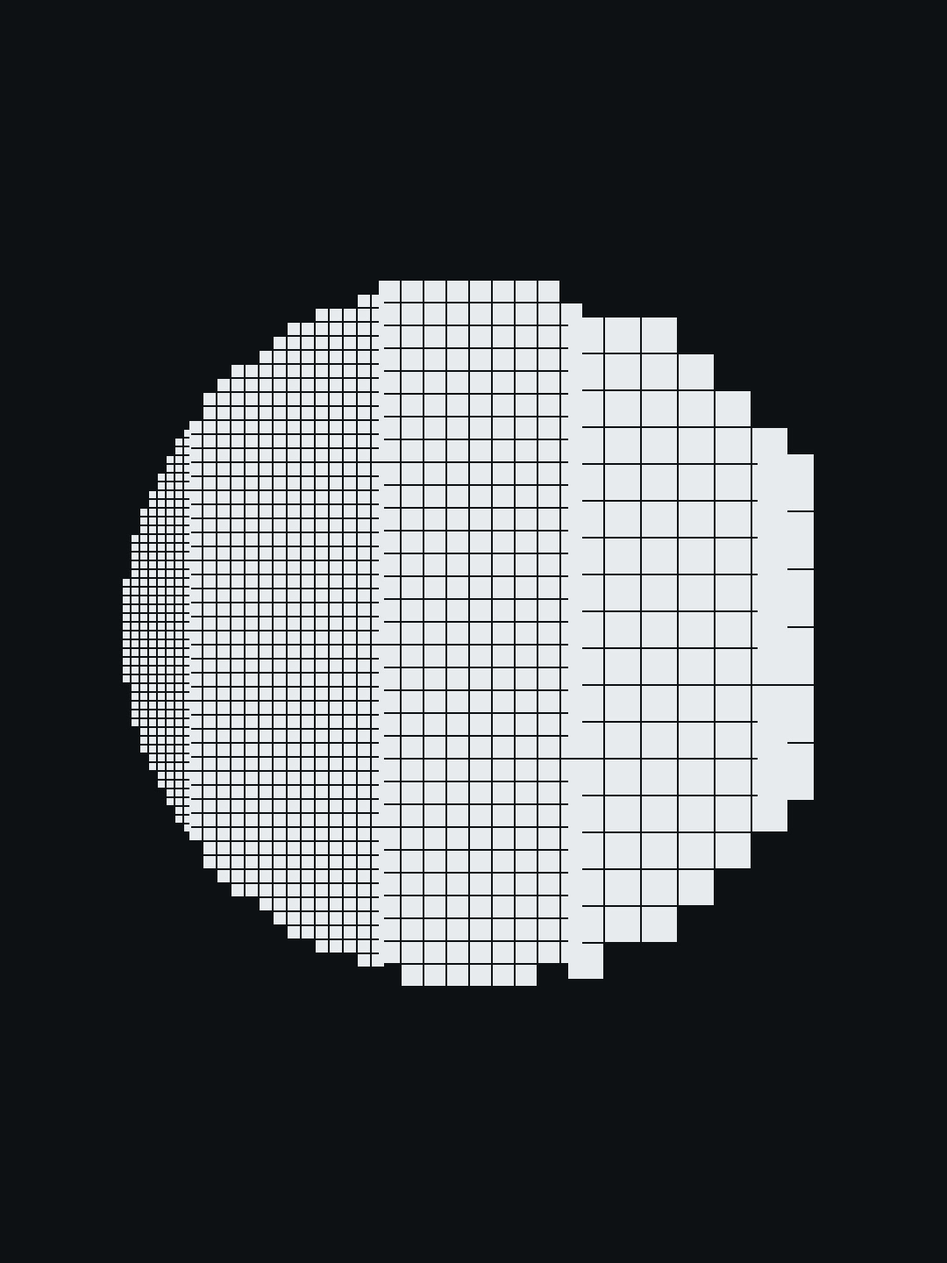
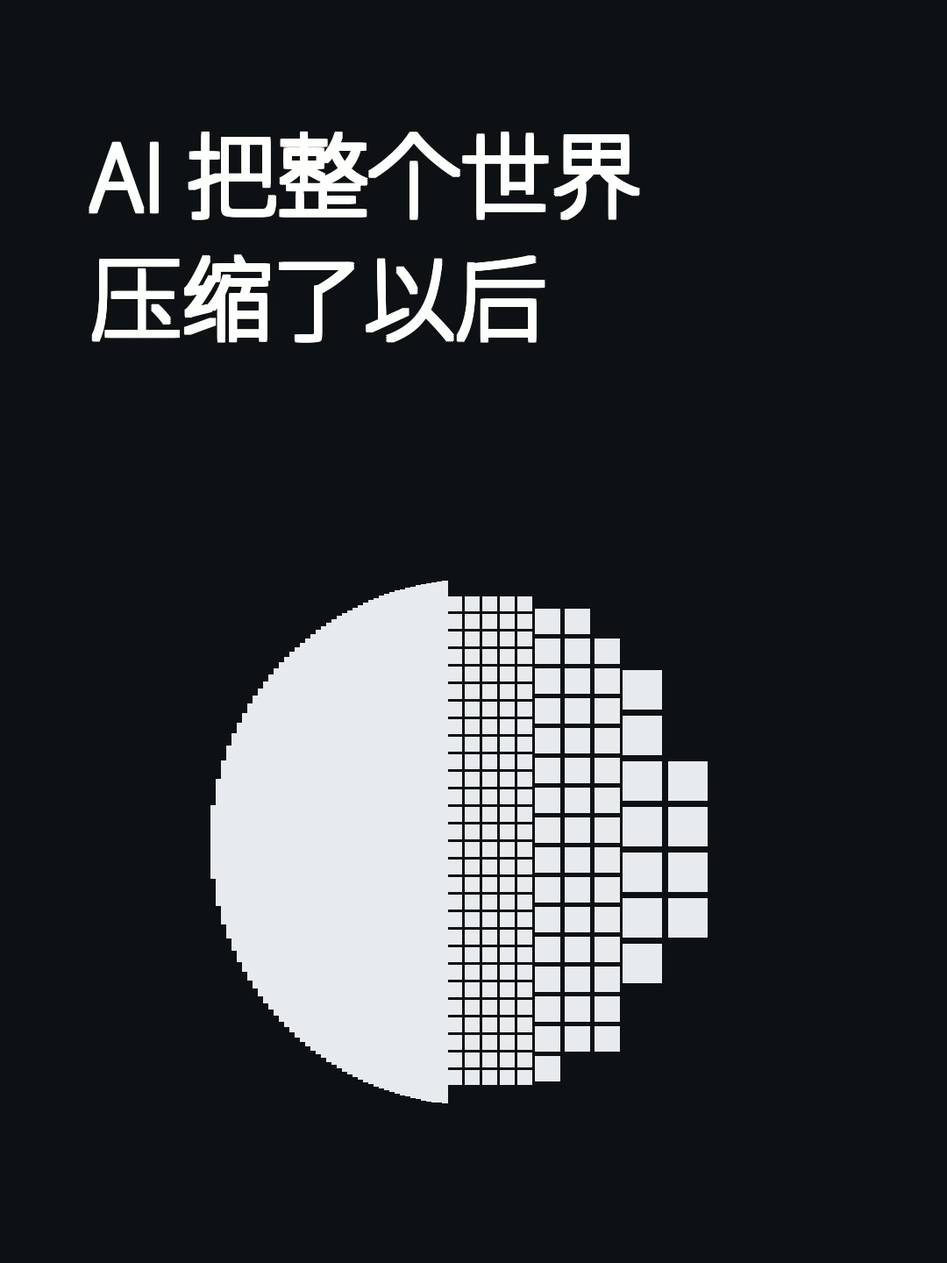
按涨粉定位重做 03;skill 整体重写
skill:
- 明确现阶段定位是快速涨粉,不是出版级长文
- 优先级倒过来:封面 > 标题 > 前三行 > 正文
- 正文 800 字上限;结尾要留能引发评论的钩子
- 封面必须带标题大字,深色底 + 几何母题,过 200px 缩略图测试
- 按 07 那篇的教训,skill 自己也从 180 行砍到 ~110 行,少讲菜谱

03:
- 正文 2200 → 797 字,8 节压成 5 节。砍掉断网思想实验、"到底懂不懂"整节(计算器/维基/GPT-3 算术)、结尾一节和两条编者注
- 逐段清掉六处白开水:首行改成"AI 其实什么都没记住"(结论前置)、幻觉一节加"不是出了错,是在补空"、去掉定义性和被动引入句、修掉结尾"距离"三连
- 结尾换成评论钩子:AI 给的东西挑不出毛病,你却总觉得那不是你想说的
- 封面重做:深色底 + 标题大字(Noto Sans CJK,多次微偏移模拟粗体)+ 一个圆左半实心、右半碎成越来越大的块

Claude-Session: https://claude.ai/code/session_01WUE7xkVtrBcZMM129J3yer

Changed region(s): [[0.0917, 0.0938, 0.8861, 0.875]]

diff --git a/.claude/skills/compile-article/SKILL.md b/.claude/skills/compile-article/SKILL.md
@@ -1,173 +1,109 @@
 ---
 name: compile-article
-description: 处理一篇外文文章,产出知觉之门的发布稿。给定文章(链接或正文)后:先判定是否值得收录,值得则按 AGENTS.md《编译》规则做通俗编译,再依次做流畅性检查、分段标题与加黑斟酌、配一张高级配图。当用户说"编译这篇""这篇值不值得收""翻译这个"或给出一个外文文章链接要处理时使用。
+description: 把一篇外文文章或一手材料做成知觉之门的小红书稿。判断值不值得做 → 先定标题和封面 → 再写卡片正文 → 打磨 → 更新索引。当用户说"编译这篇""这篇值不值得收""翻译这个",或给出一个文章链接要处理时使用。
 ---
 
-# 编译一篇文章
+# 做一篇小红书稿
 
-`AGENTS.md` 是唯一事实源,本 skill 只是把协作步骤排成流程。每一步做完再进下一步,不跳步。
+`AGENTS.md` 是唯一事实源。skill 本身也在探索,哪条不合理就改掉。
 
-产物放 `release/`,平铺,编号接着现有最大号(`NN-<英文短 slug>`):
-- `NN-<slug>.en.md` — 原文,逐字保留,绝不覆盖
-- `NN-<slug>.md` — 通俗编译稿
-- `NN-<slug>.jpg` — 小红书封面(1080×1440)
-- 需要时 `NN-<slug>.zh-en.md` — 逐段中英对照
+## 现阶段的定位
 
-编号只定文件名,不定发布顺序;上线顺序由用户排(通常解释类、基础类靠前)。
+**这个阶段要的是快速涨粉,不是出版级长文。** 长文是后面的事。
 
-## 两个栏目,两种做法
+每条规则都按这个标准判断:它能不能让更多人停下、看完、点关注。
 
-- **主线(通俗编译)**:面向"想了解 AI 的普通人,不在 AI 圈"。按 AGENTS.md《编译》做通俗改写,术语当场用人话解释,配公共领域艺术作品封面。下面的完整流程针对这一类。
-- **前沿从业者怎么说**:面向已经在用这些工具的人。做**忠实翻译**,保留结构和术语(AGENTS.md、skill、context、prompt 等不通俗化),文首点明"谁、什么时候、在哪说的"。这一类:第 1 步收录判定放宽(不要求普通人有座位),第 2 步换成忠实翻译而非通俗改写,第 3 步照做,配图可以直接用原文自带的(裁/垫成 1080×1440)。
+由此定优先级 —— **封面 > 标题 > 前三行 > 正文**。封面和标题决定有没有人点进来,正文只决定点进来的人会不会看完。力气按这个顺序花,别倒过来。
+
+## 产物
+
+`release/` 平铺,编号接现有最大号:
+
+- `NN-<slug>.md` — 发布稿
+- `NN-<slug>.jpg` — 封面 1080×1440
+- `NN-<slug>.en.md` — 原文逐字保留,绝不覆盖(有外文原文时)
+
+## 两个栏目
+
+- **主线**:面向不在 AI 圈的普通人。通俗改写,术语当场用人话解释。
+- **前沿从业者怎么说**:面向已经在用这些工具的人。忠实翻译,保留术语(AGENTS.md、skill、context、prompt 不通俗化),文首点明"谁、何时、在哪说的"。时效强、出得快,涨粉阶段可以多做。
 
 ---
 
-## 第 0 步:拿到原文
+## 第 1 步:值不值得做
 
-- 链接优先用 `curl -sL -A "Mozilla/5.0 …"` 抓,提取正文段落,存 `<slug>.en.md`(标题、副标题、作者、日期在前)。
-- 抓不到就请用户贴正文。
-- 通读一遍。不清楚论证前不进下一步。
+**硬门槛**(任一不过就别做):
 
-## 第 1 步:判定是否值得收录
+- 把 AI 删掉,文章还完整 → 不做。
+- 只有观点,没有人、物、机制、数字 → 不做。
+- 是新闻复述、跑分、"普通人如何抓住风口" → 不做。
 
-先过硬门槛(任一不过 → 不收,直接告诉用户为什么):
+**涨粉门槛**(这个阶段比"文章好不好"更重要):
 
-1. **删掉 AI 后文章还完整吗?** 完整 → 不收。
-2. **它咬住了一个具体问题吗?** 一句大白话能说清"它在问什么",且普通人会点头"我也想过";如果反应是"有意思,但不是我的事" → 选题或切入口有问题。
-3. **里面有人、物、机制或选择吗?** 只有观点、没有具体载体 → 不收。
-4. **它是新闻 / 参数复述 / "普通人如何抓住机会"吗?** 是 → 不收。知觉之门不追发布。
+- 一句话能说清它在讲什么吗?说不清,封面和标题就没法做。
+- 普通人看到会不会觉得"这说的就是我"?只会"有意思但不关我事" → 换选题。
+- 有没有可争的地方?能引评论的选题,比无懈可击的选题值钱。
 
-再过价值门槛:
+不做就停在这里,一句话讲清为什么。
 
-5. **它能收回到一个问题,然后要么落一个判断,要么抛一个更深的问题吗?** 只是"一个有趣的研究" → 不够。
-6. **读者读完,会重新打量自己生活里的什么?** 说不出来 → 还不成熟。
-7. **文章本身够好、够自足吗?** 论证靠定义硬撑、或半篇是易腐的预测和跑分 → 只适合当"多来源里的一个",不适合整篇编译,建议用户改走原创稿。
-8. **立场会不会和 `release/` 里已有的稿雷同?** 现有稿如果已经几篇都在讲"AI 侵蚀了某种人的能力",再来一篇同调的会把号做成"AI 怀疑号"。提示用户,让他决定是否仍要收,或换一篇补别的栏目/别的立场(经营决策、前沿、有现场、偏正面或混合)。
+## 第 2 步:先定标题和封面
 
-输出:一句结论(收 / 不收)+ 逐条理由。不收就停在这里。
+**在写正文之前定。** 定不下来,说明选题本身不成立。
 
-## 第 2 步:通俗编译(按 AGENTS.md《编译》)
+**标题**(封面上的大字):
 
-- **验收标准:一个受过教育的普通读者,每句话第一遍就读懂。一个懂技术的人读着卡壳,就是没做完。**
-- 保留论证和作者的语气、第一人称转述("Sacasas 说""他觉得"),不保留原文的句式和抽象度。
-- 每一个抽象论断都要落成具体的事或一个日常例子。译到抽象处停下来问:这句话能还原成人、物、机制、数字或决定吗?不能就重写。
-- 引文改成转述,只留带画面的那几句(如"引开看门狗的肉""就着盐吸可卡因")。哲学家引哲学家的链条压掉;次要来源压成一两句。
-- 删原文的开场客套、邮件通讯说明、写给订户的旁白、文末推荐阅读。
-- 术语躲不开时当场用人话解释;能删的术语名字直接删,只留功能描述。
-- 原文若是几年前的,内容里有已经过时的经验、预测或跑分:不改原意,在正文里用方框 `> 编者注:…` 补一句现在的情况(这也正是知觉之门"过几个月回来核对"的做法)。编者注自带标签,少而准,一篇最多两三条。
-- 文首只放一行出处:`> 编译自 <作者>,《<原题>》,<出处>,<年份>。` 不写"通俗改写""不逐句直译""英文原文见…"之类的说明,那些是全站惯例,写进 `release/index.md` 一次就够。
-- 有公式就用 LaTeX(GitHub 渲染):行内 `$...$`,单独成行 `$$...$$`。不要写成"e 的 −λT 次方"这种。
+- 用中文本来的说法。不搬英文标题语法("为 X 重新思考 Y""当 X 之后""关于 X 的 N 件事")。
+- **不拿原文的比喻当标题** —— 比喻是正文才建立起来的东西,读者还没读,看不懂。
+- **不要工整对仗**。对仗听着像金句,其实是空壳,一股 AI 味。锋利来自一个具体的、反直觉的断言。
+- 写完念一遍:主语有没有滑掉,有没有词被硬当名词用。
 
-## 第 3 步:三轮打磨(逻辑性 / 表达性 / 可读性)
+**封面**:
 
-**逐字逐句过**,不是通读一遍找大问题。三轮,每轮只盯一个维度,每轮都从头读全文,把问题逐条改掉再进下一轮。
+- 1080×1440,深色底 `0x0E1013` + 白/浅灰几何母题 + 大留白 + **标题大字**。
+- 母题要**画出文章的核心机制**,不是装饰(有损压缩 → 一个圆的格子从细到粗;指数衰减 → 一排按 $e^{-\lambda T}$ 降下去的柱子)。
+- **缩略图测试**:缩到 200px 宽还认不出主体,就是废图,重做。满幅排线的老版画、整页文字的书影一律过不了。
+- 全站视觉必须一致 —— 读者刷到第三条时要认得出是同一个号。
+- 工具只有 ffmpeg(没有 PIL / ImageMagick / rsvg)。`drawbox` 拼几何,`drawtext` 排字(字体 Noto Sans CJK SC):
+  ```
+  python3 gen.py > vf.txt
+  ffmpeg -f lavfi -i "color=c=0x0E1013:s=1080x1440" -vf "$(cat vf.txt)" -frames:v 1 -q:v 2 out.jpg
+  ```
+- 前沿栏目可以直接用原文自带的图。用他人作品要在文末写清作品、作者、藏馆、授权;自己生成的不用署名。
 
-**第一轮 —— 逻辑性**
-- 论证链条有没有断口:每一步推论跟得上上一步吗?有没有跳步、偷换概念、前后矛盾?
-- 结论是真的从前面推出来的,还是硬接上去的?
-- 一个较真的反对者会从哪一句插进来?那句得补严。
-- 有条件的结论有没有被写成绝对的;关键数字、因果方向,回原始来源核。
+## 第 3 步:写正文
 
-**第二轮 —— 表达性**
-- 每句话有没有把想说的意思说准、说到位;有没有含糊、绕、说了等于没说的地方。
-- 比喻贴不贴切,例子对不对得上要讲的点。
-- 关键判断有没有被埋在一堆铺垫里;该重的地方重了没有。
-- 术语躲不开时当场用人话解释;能删的术语名字直接删。
+**正文按节排成图片卡,一节 = 一张卡。**
 
-**第三轮 —— 可读性**
-- 目标读者从头顺下来,有没有要回读第二遍的句子。
-- 指代清不清("它""这个""他们"指谁);连接词生不生硬;同一个词短距离重复。
-- 句子头重脚轻、一句话绕三层、破折号里套太长的从句。
-- 节奏:该快的地方快,该停的地方停;可删的字词删掉。
-- 假人味:为显得有人味而抖机灵、硬凑口语——判废。
+- **全篇 800 字上限**,超了就砍。这个阶段没人在小红书上读两千字。
+- 一节一张卡,**每张卡一个重点**。纯铺垫的内容不能单独占一张卡:并进去,或者删掉。
+- **前三行必须是读者自己的事** —— 他正在做、或已经在嘀咕的。不拿"某年某国某公司出了件怪事"开场。
+- **正题在第一、二张卡就出现**,不能铺三张卡才揭晓。
+- 每节先给判断,再给论证。
+- 小标题连起来读是一条完整主干 —— 只看小标题的人也能拿到骨架。
+- 一段 60–100 字封顶(手机 4–6 行),超过就拆,一句一层。
+- 加黑不超过 3–4 处,只加能独立拎出来的判断,不加解释文。
+- **结尾留一个能引发评论的问题或判断** —— 评论带来分发。
 
-三轮做完,把每轮"挑出的问题 → 改法"给用户看。
+其他:
 
-## 第 4 步:按小红书的卡片节奏排
+- 文首一行出处:`> 编译自 <作者>,《<原题>》,<出处>,<年份>。`
+- 术语躲不开时当场用人话解释;能删的术语直接删,只留功能描述。
+- 原文有过时的预测或跑分,用 `> 编者注:` 补一句现状,一篇最多两条。
+- 公式用 LaTeX。行内 `$...$` 前后留空格,别贴中文标点,否则 GitHub 不渲染;`\text{中文}` 不渲染,别用。
 
-**小红书上正文是按节排成图片卡的,一节 = 一张卡。** 读者是滑着看的,每张卡自己要立得住。
+## 第 4 步:打磨
 
-**结构:**
-- **一节一张卡,每张卡一个重点。** 纯铺垫、纯背景的内容不能单独占一张卡——它没有重点,读者划走。要么并进有判断的那张,要么删。
-- **第一张卡是封面卡**:必须是读者自己的事(他正在做、或已经在嘀咕的),加一个判断。不能拿"某年某国某公司出了件怪事"开场——那是别人的事。
-- **正题不能等**。文章真正要讲的东西,第一、二张卡就得出现,不能铺三张卡才揭晓。
-- **结论前置**:每节先给判断,再给论证,不是先铺垫后揭晓。
-- **小标题连起来读,应该是一条完整的主干**。只看小标题的人也能拿到全文骨架。
-- **编者注最多两条**,卡片里塞太多注会打断节奏。能并进正文的就并进去。
+按篇幅决定投入,别在八百字的稿子上做两千字的功夫。逐句读一遍,盯三样:
 
-**段落:**
-- 手机上一行约 15–18 字。**一段 60–100 字封顶(4–6 行),超过就拆。**
-- 拆的办法是一句一层,不是硬断。
-- 排完自己数一遍最长的几段,超了就改。
+- **逻辑**:有没有跳步、前后矛盾;有条件的结论有没有被写成绝对的;关键数字回原始来源核。
+- **表达**:有没有含糊、绕、说了等于没说;比喻贴不贴切;有没有把精确的词换成口水话(通俗 ≠ 拉低抽象层次)。
+- **可读**:有没有要回读第二遍的句子;指代清不清;同一个词短距离重复;为显得有人味硬凑口语 —— 判废。
 
-**标题:**
-- 按 AGENTS.md《标题》一节重拟。标题是封面卡上的大字,要让读者觉得"这说的是我"或"这我想知道"。
-- **不拿原文的比喻当标题** —— 比喻是正文要建立的东西,不是入口。读者还没读,看不懂比喻。
-- **不搬英文标题语法**("为 X 重新思考 Y""换上 X,做 Y""当 X 之后""关于 X 的 N 件事")。
-- 不要工整对仗——对仗听着像金句,其实是空壳,而且一股 AI 味。锋利来自一个具体的、反直觉的断言,不是来自句式。
-- 写完念一遍,主语有没有滑掉、有没有词被硬当名词用。
+## 第 5 步:收尾
 
-**加黑:**
-- 默认不加。加黑 = 宣称这是金句。只有满足才加:
-  - 是一句能独立拎出来的判断或转折,不是加黑的解释文;
-  - 简洁、有刀口、能吸引人往下读;
-  - 全篇不超过 3–4 处,多了就稀释。
-- 列表项的首句可以加黑当小标,那是结构,不算金句配额。
-- 加完自己数一遍,逐个问:这是金句吗?不是就取消。
-
-## 第 5 步:配图(小红书封面)
-
-这张图是小红书封面,不是普通插图。**它决定读者停不停下来,权重高于正文里的任何一句话。** 全站必须**尺寸一致、风格统一**。
-
-**先过缩略图测试,过不了的一律换掉:**
-把图缩到 200px 宽再看。一眼认不出主体是什么,就是废图。满幅排线的蚀刻、整页文字的书影、大场景里的小人物,全都过不了这一关——它们在拇指大小下只是一团灰。
-
-**抓眼的图长这样:**
-- **主体大、元素少**:1–3 个元素,不是一整个场景。
-- **高对比 + 大留白**:大块黑白,或一个强色块压住画面。
-- **有个说不清但想看的钩子**:一个奇怪的动作、一个不完整的形状、一个不该出现在那里的东西。
-- **概念对得上文章的核心动作**,不是气质对上就行。裁局部往往比用整幅强——整幅是"一件作品",局部才是"一个意象"。
-
-**硬规格:**
-- 竖版 3:4,统一裁成 **1080 × 1440**,所有文章一张不差。
-- **必须在缩略图尺寸下立得住**。小红书上读者先看到的是拇指大的小图——细密的铜版画在那个尺寸会糊成一团灰。选**图形感强、对比高、主体大**的。这条优先于"是不是名作"。
-- **视觉语言要当下,不能是"博物馆"**。老作品可以用,但要挑那种今天看依然现代的(强构图、大块黑白、几何感),不挑繁复精细的。
-- 一律用**公共领域的艺术作品**,或前沿栏目里原文自带的图。调性:**人文感**或**数学之美**。
-- 不用:照片、技术示意图、前后对比图、图表、AI 插画、带"科技感"的通用图。
-- 不用:吓人的(尸体、解剖、监狱、酷刑)、宗教题材、血腥或压抑的画面。要沉静、克制、耐看。
-- 来源:Met Open Access、Rijksmuseum、美国国家美术馆(NGA)、Smithsonian Open Access、Wikimedia 明确公共领域。
-
-**待定**:封面卡上通常要把标题排成大字。现有环境没有 PIL / ImageMagick / rsvg,只有 ffmpeg + Noto Sans CJK SC,能做的是纯色/渐变底 + `drawtext` 大字 + `drawbox` 几何块(瑞士国际主义那种大字海报)。走不走这条路还没定。
-
-**选图:**
-- 优先和文章的核心意象呼应,让读过文章的人会心(例:讲"从有损拷贝里找原文"→ 一张палимпсест或一幅"临摹自某大师"的复制版画)。
-- 呼应不上时,选一张气质对、符合上面调性的,不硬凑主题,不选俗图。
-
-**处理(有 ffmpeg,没有 PIL/ImageMagick):**
-```
-ffmpeg -i in.jpg -vf "crop='min(iw,ih*3/4)':'min(ih,iw*4/3)',scale=1080:1440" -q:v 3 release/<slug>.jpg -y
-```
-裁前先看构图,`crop` 的 x/y 偏移调到主体居中或按需偏移。
-
-**落地:**
-- 存 `release/NN-<slug>.jpg`,和文章一起提交,在 `NN-<slug>.md` 正文最开头用 Markdown 图片语法,alt 一句话说清图和文章的关系。
-- 文末一行写清:作品名、作者、藏馆、授权(公共领域 / CC 协议)。
-- 定稿前确认:真实存在的作品、尺寸正好 1080×1440、调性和全站一致、不吓人、不宗教题材。
-
-## 第 6 步:更新索引
-
-在 `release/index.md` 末尾加一行:`- [NN-标题](NN-<slug>.md)`。链接文字是"编号-标题"。
-
-## 提交
-
-git 提交作者统一用 `yuec-000`(见 AGENTS.md)。编译稿、原文、封面、`index.md` 一起提交。
+- `release/index.md` 末尾加 `- [NN-标题](NN-<slug>.md)`。
+- git 作者统一 `yuec-000`。稿子、封面、`index.md` 一起提交。
 
 ## 交付
 
-给用户:
-- 收录判定结论
-- `NN-<slug>.md` 路径
-- 第 3 步的"毛病 → 改法"表
-- 加黑清单(几处,分别是什么)
-- 配图:文件路径 + 作品/作者/授权
-- `index.md` 已加行
+给用户:判定结论 / 标题 / 封面路径 / 稿子路径 / 改了哪些地方。

diff --git a/release/03-chatgpt-is-a-blurry-jpeg.md b/release/03-chatgpt-is-a-blurry-jpeg.md
@@ -2,15 +2,13 @@
 
 > 编译自 Ted Chiang(特德·姜),《ChatGPT Is a Blurry JPEG of the Web》,The New Yorker,2023-02-09。
 
----
-
 ![一个圆,从左到右格子越来越粗:同一个东西,细节被一层层压掉之后的样子。](03-chatgpt-is-a-blurry-jpeg.jpg)
 
-你问 AI 一个问题,它答得又快又顺。
+**AI 其实什么都没"记住"。**
 
-你大概默认它是这么干的:读过海量资料,记住了,你一问,它就把相关的翻出来。
+你大概默认它是这么干的:读过海量资料,记住了,你一问就翻出来给你。
 
-其实不是。它读过的东西,绝大部分根本没存下来。它做的不是记忆,是压缩——而且是会丢东西的那一种。
+不是。它读过的东西丢掉了 99%,存下来的是一份压缩过的近似——你每次拿到的,都不是原文。
 
 ## 复印件上的数字清清楚楚,但是错的
 
@@ -18,91 +16,34 @@
 
 复印件上,三个数字全变成了 14.13。
 
-今天的复印机不是把纸照原样印一遍,而是先扫成数字图像、压缩存起来,再打印。它用的那种压缩,会把图里长得像的地方挑出来只存一份,还原时反复拿这一份去拼——它认定那三个数字"长得够像",就只留了一个。
+今天的复印机是先把纸扫成数字图像、压缩存起来再打印。那种压缩会把长得像的地方只存一份,还原时反复拿它去拼——它认定那三个数字"够像"。
 
-压缩分两种:还原后和原件一模一样的,叫无损;还原后只是个近似、丢掉的再也找不回来的,叫有损。照片、音乐、视频都用有损,因为不完美通常没人在意,压得狠了你才看得出——图片发糊,音频发闷。
-
-**但复印机这次的问题,恰恰是它一点都不糊。** 整张纸要是模糊,谁都知道不能当准确的复制件。麻烦的是,它印出来的数字清清楚楚,一点不像有问题——可它是错的。
-
-## ChatGPT 就是对全网文字做了这件事
-
-设想你马上要永远断网。断之前,你想把全网的文字存一份到自己的服务器上,可空间只够装百分之一。
-
-想全塞进去,就只能用有损。于是你写个算法,把文字里反复出现的规律找出来存下,把一百份的内容压成一份。
-
-断网之后,你建个界面:你提问,它按存下的规律,给你一个大意。
-
-这就很像 ChatGPT。网上的信息它留住了大半,就像压过的照片还留着原图的大致模样。但你要找一句一字不差的原文,找不到——你拿到的永远是个近似。
-
-只因为这个近似是用通顺的句子给出来的(它最擅长这个),你通常也就接受了。
+**麻烦的不是它糊,恰恰是它一点都不糊。** 整张纸要是模糊,谁都知道不能当准确的复制件。可它印出来的数字清清楚楚,一点不像有问题——却是错的。
 
 ## 幻觉不是故障,是压缩痕迹
 
-大模型对着一个事实问题一本正经地胡说,这件事被叫作"幻觉"。
+大模型一本正经地胡说,大家管这叫"幻觉",听起来像个待修的故障。
 
-**换成压缩这个角度看,幻觉一点都不奇怪。** 一个算法丢掉了 99%,还要把文本重建出来,它生成的内容里有一大块本来就是编的。
+换成压缩的角度看就不奇怪了:丢掉 99% 还要把文本重建出来,里面有一大块本来就是编的。**它不是出了错,是在补空。**
 
-而且它编出来的东西,跟复印机那些又清晰又错误的数字一样,够像真的。想识别,只能拿原文、或者你自己对世界的了解去对照。
-
-有损压缩还有一招:缺了的地方,看两边、取中间。图像还原一个丢掉的像素,就看邻近像素取个平均。
-
-你让 ChatGPT"用《独立宣言》的腔调,写一只袜子丢在烘干机里",它干的就是这件事。
-
-一头是《独立宣言》的文风,一头是丢袜子这件小事,它在两头之间兑出中间那一段。
-
-## 那它到底懂不懂
-
-把大模型说成"有损文本压缩",听着像贬低。但这个类比还有另一面:**压到极致,是要靠理解的。**
-
-一个文件里有一百万道加减乘除。想把它压到最小,最好的办法大概是推导出算术原理、写一个计算器程序。
-
-有了计算器,这一百万道能还原,以后遇到任何一道也能算。
-
-压维基百科同理:程序要是"懂"了力等于质量乘加速度,压物理页面时就能扔掉很多字,反正它还原得回来。
-
-那 ChatGPT 呢?它找的是文字里的搭配规律:"供给不足"经常和"价格上涨"一起出现,于是你问它供给短缺的影响,它就答价格会涨。
-
-它攒了海量这种搭配,多到能对各种问题给出像样的回答——这算懂经济学吗?
-
-原文写于 2023 年,当时拿 GPT-3 试过算术:两位数加减法几乎全对,数字一大就崩,五位数只剩一成对。
-
-它答对的那些,网上基本查不到("245 + 821"这种没多少网页写),所以不是背下来的。
-
-可它吃了那么多资料,也没能推导出算术原理。看它的错法,像是不会进位——网上讲进位的材料明明有,它没学进去。
-
-> 编者注:2026 年的模型做算术已经好得多,但常常是直接调了个计算器来算。这反而印证了原文的判断:它没学会算术,是绕过去了。
+而补出来的那部分,跟复印件上那些数字一样,清清楚楚,够像真的。
 
 ## 它背不出原文,你才觉得它懂了
 
-那它写大学论文为什么又像懂?
+那它写起东西来,为什么又像懂?
 
-解释其实很朴素:假如 ChatGPT 是无损的,它只会一字不差地引用网页,你多半觉得它不过是个强一点的搜索引擎,没什么惊艳。
+解释很朴素:假如它是无损的,只会一字不差地引用网页,你多半觉得这不过是个强一点的搜索引擎,没什么惊艳。
 
 正因为它是转述、不是照抄,像个"用自己的话复述"的学生,而不是照着书背的学生,才造出了"它懂了"的错觉。
 
-在人身上,死记硬背不算真学会。所以 ChatGPT 引不出原文,反而让我们觉得它学到了东西。
-
 **换句话说:让你觉得它聪明的那一点,恰恰是你不该信它的那一点。**
 
-## 它帮不了你的初稿
+## 它写得顺,但那不是你的想法
 
-有人说,大模型的输出跟人写的初稿也没多大区别。
+有人说 AI 的输出和人的初稿差不多,只是看着像而已。
 
-只是看着像。**AI 写出来的东西,是话说得顺、底下没想法;你的初稿正相反——话写得难看,底下压着一个你自己的想法,正卡着出不来。**
+AI 写出来的是话说得顺、底下没想法;你的初稿正相反——话写得难看,底下压着一个你自己的想法,正卡着出不来。
 
-那种别扭你自己能感觉到:写出来的,和心里真正想说的,隔着一段距离。是这段距离在告诉你该往哪儿改。
+你能感觉到写出来的和想说的对不上,正是这种不对劲在告诉你该往哪儿改。而 AI 的文字挑不出毛病,也就没有这种不对劲可循。
 
-从 AI 生成的文字开始,缺的就是这段距离。文字挺顺,可那不是你的想法憋出来的,你也感觉不到哪里不对。
-
-## 手里还有原件,一张糊图值多少
-
-原文还提醒过一件事:大模型生成的文字发得越多,网络就越是变成它自己的一张更糊的照片。
-
-它也留了余地:也许将来会有一个 AI,能凭自己对世界的经验写出好文章。那一天意义重大——但远在我们能预测的范围之外。
-
-在那之前,还有一个问题悬着:要是我们真的永远失去互联网,只能往一台空间有限的服务器上存一份,ChatGPT 这样的东西也许是个好方案——前提是能管住它不编。
-
-可我们并没有在失去互联网。**当你手里还有原件,一张模糊的翻拍,到底值多少?**
-
-> 编者注:三年过去,文章担心的事应验了——网上所谓"AI 泔水"泛滥,正是"网络变成自己更糊的版本"。而这让最后那个问题更尖:现在网上的"原件"本身,越来越多也是模糊的。
-
+你有没有过这种时候:AI 给的东西挑不出毛病,你却总觉得那不是你想说的?

diff --git a/release/06-why-long-tasks-break-ai.md b/release/06-why-long-tasks-break-ai.md
@@ -1,6 +1,6 @@
 # 你的 AI 为啥总掉链子
 
-![伯努利《猜度术》(1713)第一部分的扉页——把"连着很多次都得成功,整体成功率是多少"这件事算清楚,是从这本书开始的。](06-why-long-tasks-break-ai.jpg)
+![一排按 $e^{-\lambda T}$ 降下去的柱子:任务每长一分钟,成功率就掉一截,掉的方式是指数的。](06-why-long-tasks-break-ai.jpg)
 
 你大概注意到过:让 AI 做一个小任务,它又快又好;把一个需要几十步、跑一两个小时的大任务整块交给它,它经常在半路上散架——不是某一步特别难,是整件事没串起来。
 
@@ -63,7 +63,3 @@ Google DeepMind 团队的一篇论文(《Large Language Models Cannot Self-Corre
 所以能用的 agent 系统,不管底座模型多强,都是围着同样两个动作搭的:**把长任务拆成写下来的、短的、能单独核对的步骤;再拿模型之外的东西(测试、计算器、原始资料、另一个人),一步一步核对。** 这不是工程上偷懒的权宜之计,是上面三条结果各自指向的同一个方向。
 
 一个补充:现在那批"推理模型",是把"写草稿、自我检查"这套动作,用一套奖惩机制反复练,直接练进了模型内部,而不是靠外面套一层。这确实把一部分原来要手动搭的脚手架吸收进了模型——但它改的是"每一步写得多好、拆得多合理",没有改"长任务里每一环都得对"这个前提。指数衰减这条曲线在往后移,不是在消失。
-
----
-
-配图:雅各布·伯努利《猜度术》(Ars Conjectandi),1713 年首版内页。公共领域,来自 Wikimedia Commons。
